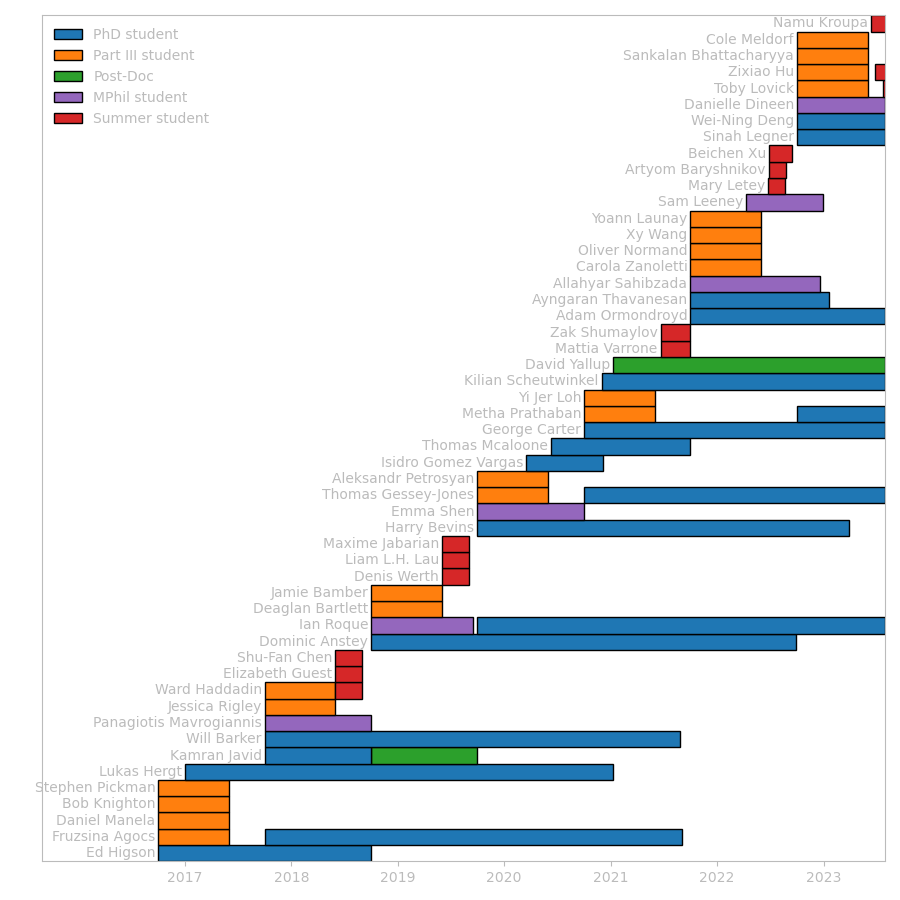
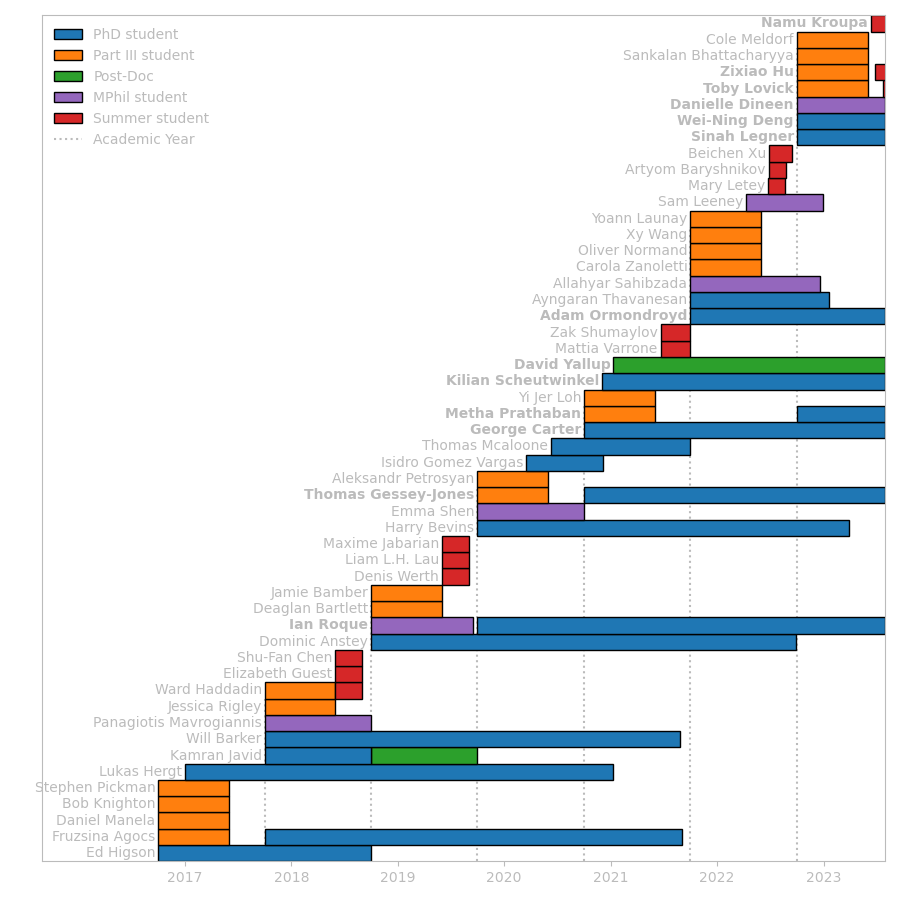
Added academic year lines

diff --git a/assets/students/timeline.py b/assets/students/timeline.py
@@ -25,28 +25,41 @@ colors = {'partiii': 'C1',
 fig, ax = plt.subplots()
 rects = {}
 for i, student in enumerate(students):
+    weight = None
     for l in student.levels:
         start = l.start.toordinal()
         if l.end is not None:
             end = l.end.toordinal() 
         else:
             end = datetime.date.today().toordinal()
+        if end >= datetime.date.today().toordinal():
+            weight = 'bold'
             
         rect = plt.Rectangle((start, i), end-start, 1, fc=colors[l.key], ec='k') 
         rects[str(l)] = rect
         ax.add_artist(rect)
-    ax.annotate(student.name, (student.start.toordinal()-10, i+0.5), va='center', ha='right', color=grey)
+    ax.annotate(student.name, (student.start.toordinal()-10, i+0.5), va='center', ha='right', color=grey, weight=weight)
         
 min_year = min([student.start.year for student in students])
 date_labels = [datetime.date(i,1,1) for i in range(min_year+1,datetime.date.today().year+2)]
-ax.set_xticks([d.toordinal() for d in date_labels])
+xticks = [d.toordinal() for d in date_labels]
+ax.set_xticks(xticks)
 ax.set_xticklabels([d.year for d in date_labels])
 
 ax.set_xlim(min([student.start.toordinal() for student in students])-400, datetime.date.today().toordinal())
 ax.set_ylim(0,i+1)
 ax.set_yticks([])
 
+starts = np.array([(min([l.start.toordinal() for l in s.levels]), i) for i, s in enumerate(students)])
+academic_date_labels = [datetime.date(i,10,1).toordinal() for i in range(min_year+1,datetime.date.today().year+2)]
+for date in academic_date_labels:
+    start = starts[starts[:,0] <= date][-1]
+    line, = ax.plot([date, date], [0, start[1]], color=grey, linestyle=':', zorder=-1)
+
 labels, handles  = np.transpose(list(rects.items()))
+labels, handles = list(labels), list(handles)
+labels += ['Academic Year']
+handles += [line]
 ax.legend(handles, labels, labelcolor=grey, framealpha=0.0)
 
 png_file = os.path.join(os.path.dirname(os.path.abspath(__file__)), 'students.png')
